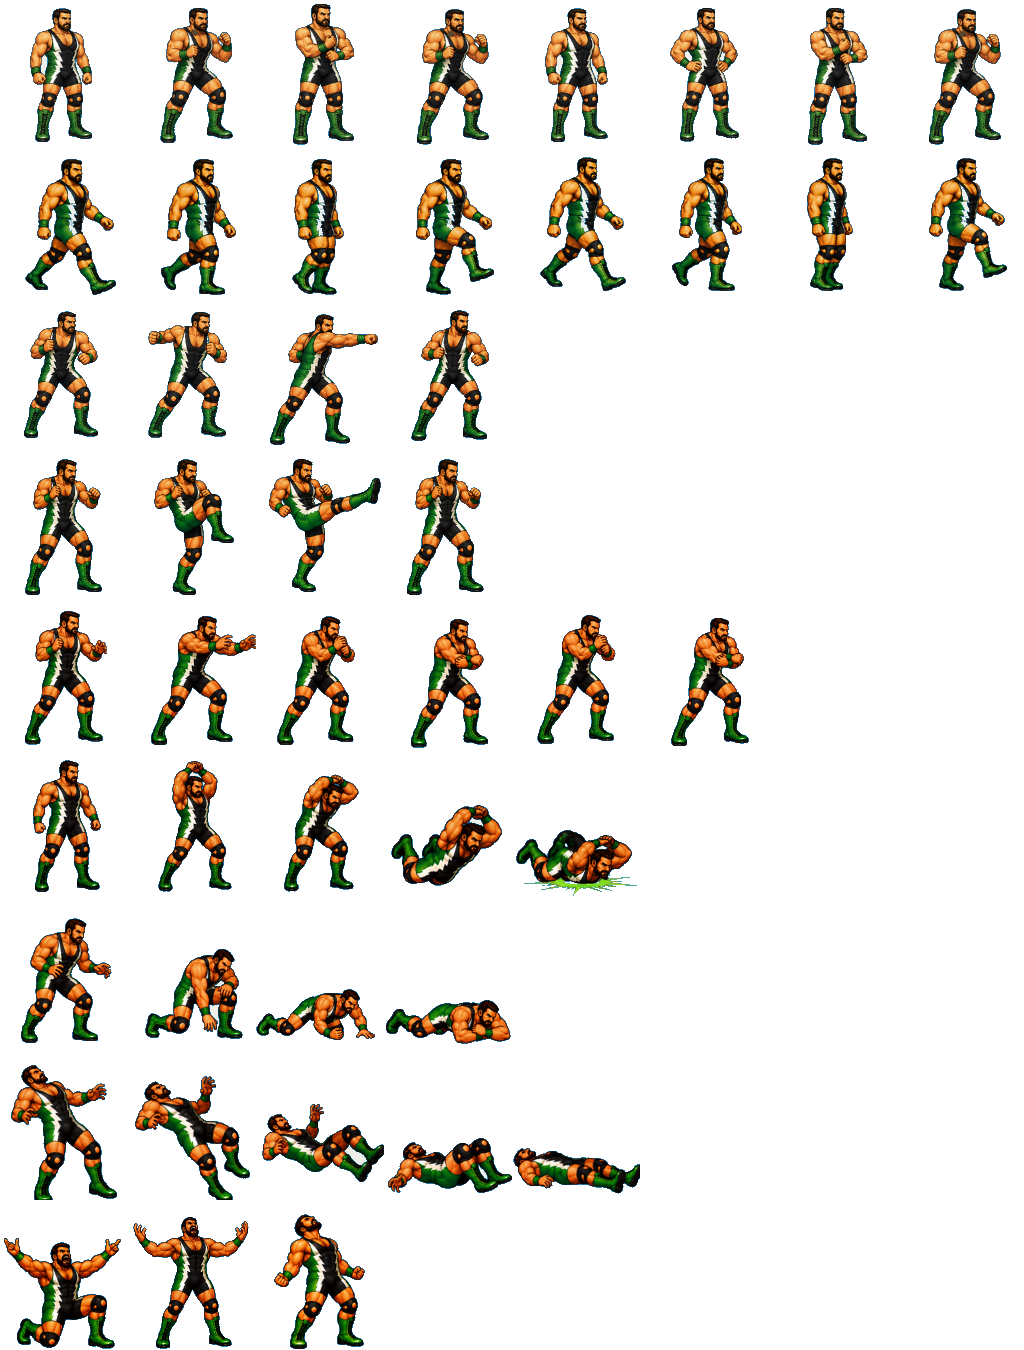
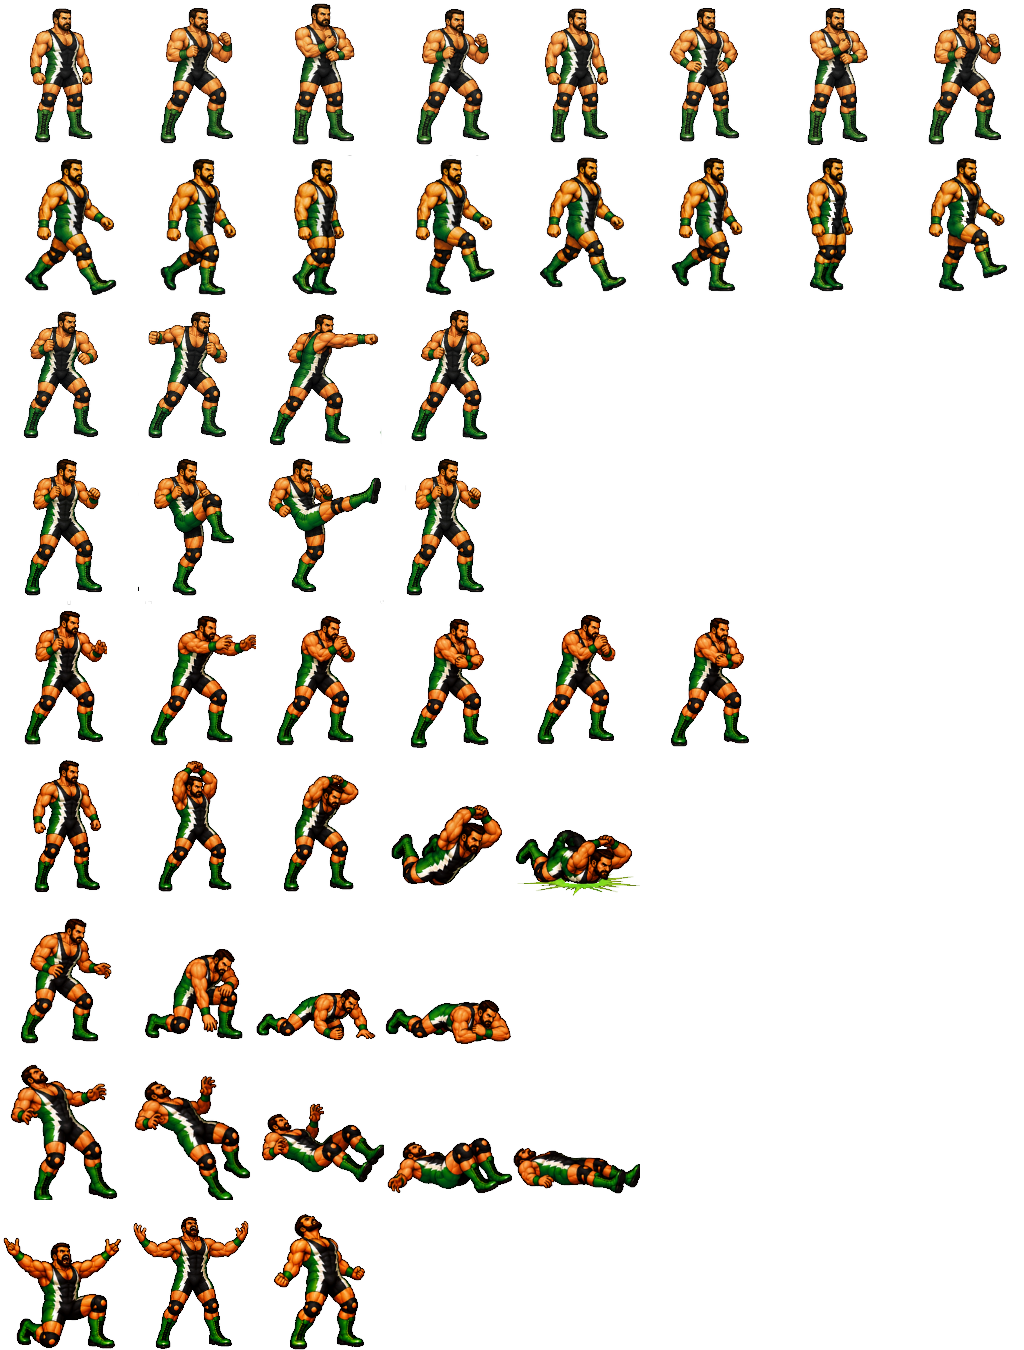
Add files via upload

diff --git a/src/main.js b/src/main.js
@@ -10,7 +10,7 @@ arenaImage.src = "assets/arena.png";
 const startImage = new Image();
 startImage.src = "assets/indiemanie-start-screen.png";
 const johnnyAtlas = new Image();
-johnnyAtlas.src = "assets/johnny-toxic-atlas.png?v=blue-key-3";
+johnnyAtlas.src = "assets/johnny-toxic-atlas.png?v=transparent-1";
 const joeyAtlas = new Image();
 joeyAtlas.src = "assets/joey-image-atlas.png?v=full-template-1";
 const philAtlas = new Image();
@@ -43,11 +43,14 @@ const state = {
   mode: "start",
   selectedIndex: 0,
   playerChoice: null,
+  cpuChoice: null,
+  selectStep: "player",
   message: "Hit START to begin",
   shake: 0,
   flash: 0,
   lastTime: performance.now(),
   pin: null,
+  grapple: null,
   cpuThink: 0,
   cpuIntent: "circle",
   result: null
@@ -132,6 +135,8 @@ canvas.addEventListener("click", (event) => {
     y <= startButton.y + startButton.h
   ) {
     state.mode = "select";
+    state.selectStep = "player";
+    state.selectedIndex = state.playerChoice ?? 0;
     state.message = "Choose your wrestler";
   }
 });
@@ -166,18 +171,22 @@ function makeWrestler(template, side, isPlayer) {
     block: false,
     kickMash: 0,
     pinCooldown: 0,
+    grappleCooldown: 0,
     aiCooldown: 0,
     celebrate: 0
   };
 }
 
 function startMatch(choiceIndex) {
-  const playerTemplate = roster[choiceIndex];
-  const cpuTemplate = roster[(choiceIndex + 1) % roster.length];
+  const playerIndex = choiceIndex;
+  const cpuIndex = state.cpuChoice ?? nextOpponentIndex(playerIndex);
+  const playerTemplate = roster[playerIndex];
+  const cpuTemplate = roster[cpuIndex];
   player = makeWrestler(playerTemplate, "left", true);
   cpu = makeWrestler(cpuTemplate, "right", false);
   state.mode = "fight";
-  state.playerChoice = choiceIndex;
+  state.playerChoice = playerIndex;
+  state.cpuChoice = cpuIndex;
   state.message = `${player.name} vs ${cpu.name}`;
   state.pin = null;
   state.result = null;
@@ -217,6 +226,8 @@ function update(dt) {
 
   if (state.pin) {
     updatePin(dt);
+  } else if (state.grapple) {
+    updateGrapple(dt);
   } else {
     updateFighterTimers(player, dt);
     updateFighterTimers(cpu, dt);
@@ -231,26 +242,53 @@ function update(dt) {
 function updateStart() {
   if (pressed.has("Enter")) {
     state.mode = "select";
+    state.selectStep = "player";
+    state.selectedIndex = state.playerChoice ?? 0;
     state.message = "Choose your wrestler";
   }
 }
 
 function updateSelect() {
   if (pressed.has("ArrowLeft")) {
-    state.selectedIndex = (state.selectedIndex + roster.length - 1) % roster.length;
+    moveSelectCursor(-1);
   }
   if (pressed.has("ArrowRight")) {
-    state.selectedIndex = (state.selectedIndex + 1) % roster.length;
+    moveSelectCursor(1);
   }
   if (pressed.has("Enter") || pressed.has("z") || pressed.has("x")) {
-    startMatch(state.selectedIndex);
+    if (state.selectStep === "player") {
+      state.playerChoice = state.selectedIndex;
+      state.cpuChoice = nextOpponentIndex(state.playerChoice);
+      state.selectedIndex = state.cpuChoice;
+      state.selectStep = "cpu";
+      state.message = "Choose your opponent";
+    } else {
+      state.cpuChoice = state.selectedIndex;
+      startMatch(state.playerChoice ?? 0);
+    }
   }
+  if (pressed.has("Escape") && state.selectStep === "cpu") {
+    state.selectStep = "player";
+    state.selectedIndex = state.playerChoice ?? 0;
+    state.message = "Choose your wrestler";
+  }
+}
+
+function nextOpponentIndex(playerIndex) {
+  return (playerIndex + 1) % roster.length;
+}
+
+function moveSelectCursor(direction) {
+  do {
+    state.selectedIndex = (state.selectedIndex + direction + roster.length) % roster.length;
+  } while (state.selectStep === "cpu" && state.selectedIndex === state.playerChoice);
 }
 
 function updateFighterTimers(f, dt) {
   f.actionTime = Math.max(0, f.actionTime - dt);
   f.stun = Math.max(0, f.stun - dt);
   f.pinCooldown = Math.max(0, f.pinCooldown - dt);
+  f.grappleCooldown = Math.max(0, f.grappleCooldown - dt);
   f.aiCooldown = Math.max(0, f.aiCooldown - dt);
   f.block = false;
 
@@ -304,12 +342,14 @@ function updateCpu(dt) {
 
   state.cpuThink -= dt;
   const d = distance(cpu, player);
+  const playerCrowded = isNearRingEdge(player) && d < 76;
   if (state.cpuThink <= 0) {
-    state.cpuThink = 0.25 + Math.random() * 0.45;
+    state.cpuThink = 0.34 + Math.random() * 0.52;
     if (player.down > 0 && d < 85 && cpu.pinCooldown === 0) state.cpuIntent = "pin";
     else if (cpu.momentum >= 100 && d < 70) state.cpuIntent = "finisher";
-    else if (d < 55 && Math.random() < 0.38) state.cpuIntent = "grapple";
-    else if (d < 82 && Math.random() < 0.22) state.cpuIntent = "kick";
+    else if (playerCrowded && Math.random() < 0.72) state.cpuIntent = "retreat";
+    else if (d < 56 && cpu.grappleCooldown === 0 && Math.random() < 0.16) state.cpuIntent = "grapple";
+    else if (d < 82 && Math.random() < 0.26) state.cpuIntent = "kick";
     else if (d < 72 && Math.random() < 0.58) state.cpuIntent = "punch";
     else state.cpuIntent = cpu.stamina < 30 && player.stamina > cpu.stamina ? "retreat" : "approach";
   }
@@ -414,26 +454,90 @@ function tryKick(attacker, defender) {
 }
 
 function tryGrapple(attacker, defender) {
-  if (!canAct(attacker)) return;
+  if (!canAct(attacker) || attacker.grappleCooldown > 0) return;
   attacker.state = "grapple";
-  attacker.actionTime = 0.48;
+  attacker.actionTime = 0.82;
   attacker.actionDuration = attacker.actionTime;
   attacker.action = "grapple";
-  if (inRange(attacker, defender, 52)) {
-    if (defender.stun > 0 || defender.stamina < 42) {
-      attacker.state = "slam";
-      attacker.actionTime = 0.72;
-      attacker.actionDuration = attacker.actionTime;
-      hit(attacker, defender, 18, 24, 0.9, true);
-      knockAway(attacker, defender, 150);
-      state.message = `${attacker.name} hits a heavy slam`;
-    } else {
-      hit(attacker, defender, 12, 18, 0.55, false);
-      state.message = `${attacker.name} wins the grapple`;
-    }
+  attacker.grappleCooldown = attacker.isPlayer ? 0.45 : 1.65;
+  if (inRange(attacker, defender, 78)) {
+    const slamReady = attacker.isPlayer
+      ? defender.stun > 0 || defender.stamina < 42
+      : (defender.stun > 0 && attacker.momentum >= 28) || defender.stamina < 30;
+    defender.state = "grapple";
+    defender.action = "grappled";
+    defender.actionTime = 0.82;
+    defender.actionDuration = defender.actionTime;
+    defender.stun = Math.max(defender.stun, 0.5);
+    attacker.vx = 0;
+    attacker.vy = 0;
+    defender.vx = 0;
+    defender.vy = 0;
+    state.grapple = {
+      attacker,
+      defender,
+      timer: 0,
+      resolveAt: 0.56,
+      slam: slamReady,
+      resolved: false
+    };
+    positionGrapple(attacker, defender);
+    state.message = `${attacker.name} locks up`;
   } else {
     whiff(attacker, `${attacker.name} grabs air`);
   }
+}
+
+function updateGrapple(dt) {
+  const grapple = state.grapple;
+  grapple.timer += dt;
+  positionGrapple(grapple.attacker, grapple.defender);
+  grapple.attacker.actionTime = Math.max(0, grapple.attacker.actionDuration - grapple.timer);
+  grapple.defender.actionTime = Math.max(0, grapple.defender.actionDuration - grapple.timer);
+  grapple.attacker.state = grapple.resolved ? grapple.attacker.state : "grapple";
+  grapple.defender.state = grapple.resolved ? grapple.defender.state : "grapple";
+
+  if (!grapple.resolved && grapple.timer >= grapple.resolveAt) {
+    grapple.resolved = true;
+    if (grapple.slam) {
+      grapple.attacker.state = "slam";
+      grapple.attacker.action = "slam";
+      grapple.attacker.actionTime = 0.72;
+      grapple.attacker.actionDuration = grapple.attacker.actionTime;
+      hit(grapple.attacker, grapple.defender, 18, 24, 0.9, true);
+      knockAway(grapple.attacker, grapple.defender, grapple.attacker.isPlayer ? 150 : 112);
+      if (!grapple.attacker.isPlayer) grapple.attacker.grappleCooldown = 2.6;
+      state.message = `${grapple.attacker.name} hits a heavy slam`;
+    } else {
+      hit(grapple.attacker, grapple.defender, 12, 18, 0.55, false);
+      grapple.attacker.actionTime = 0.28;
+      grapple.defender.actionTime = 0.32;
+      state.message = `${grapple.attacker.name} wins the grapple`;
+    }
+    state.grapple = null;
+  }
+}
+
+function positionGrapple(attacker, defender) {
+  const side = attacker.x <= defender.x ? 1 : -1;
+  const midX = (attacker.x + defender.x) / 2;
+  const midY = (attacker.y + defender.y) / 2;
+  attacker.x = clamp(midX - side * 13, -ring.w * 0.36, ring.w * 0.36);
+  defender.x = clamp(midX + side * 13, -ring.w * 0.36, ring.w * 0.36);
+  attacker.y = clamp(midY - 2, -ring.h * 0.28, ring.h * 0.28);
+  defender.y = clamp(midY + 2, -ring.h * 0.28, ring.h * 0.28);
+  attacker.face = side;
+  defender.face = -side;
+  attacker.vx = 0;
+  attacker.vy = 0;
+  defender.vx = 0;
+  defender.vy = 0;
+}
+
+function isNearRingEdge(f) {
+  const maxX = ring.w * 0.39 - Math.abs(f.y) * 0.25;
+  const maxY = ring.h * 0.31;
+  return Math.abs(f.x) > maxX - 34 || Math.abs(f.y) > maxY - 26;
 }
 
 function tryFinisher(attacker, defender) {
@@ -557,7 +661,7 @@ function hit(attacker, defender, staminaDamage, momentumGain, stunTime, knockdow
 }
 
 function whiff(attacker, message) {
-  if (!["punch", "kick"].includes(attacker.state)) {
+  if (!["punch", "kick", "grapple"].includes(attacker.state)) {
     attacker.state = "whiff";
   }
   attacker.actionTime += 0.24;
@@ -929,28 +1033,45 @@ function drawStart() {
 }
 
 function drawSelect() {
+  const choosingCpu = state.selectStep === "cpu";
   ctx.textAlign = "center";
   ctx.fillStyle = "#f5ead8";
   ctx.font = "30px Impact";
-  ctx.fillText("Choose Your Wrestler", W / 2, 116);
+  ctx.fillText(choosingCpu ? "Choose Your Opponent" : "Choose Your Wrestler", W / 2, 116);
+  if (choosingCpu && state.playerChoice !== null) {
+    ctx.fillStyle = "#f4c44f";
+    ctx.font = "18px Arial";
+    ctx.fillText(`Player: ${roster[state.playerChoice].name}`, W / 2, 144);
+  }
 
   roster.forEach((r, i) => {
     const gap = 250;
     const x = W / 2 - ((roster.length - 1) * gap) / 2 + i * gap;
     const y = 352;
-    ctx.fillStyle = state.selectedIndex === i ? "#f4c44f" : "#2a2e32";
+    const isSelected = state.selectedIndex === i;
+    const isPlayerChoice = choosingCpu && state.playerChoice === i;
+    ctx.fillStyle = isSelected ? "#f4c44f" : isPlayerChoice ? "#46b85a" : "#2a2e32";
     ctx.fillRect(x - 130, y - 124, 260, 248);
     ctx.fillStyle = "#111";
     ctx.fillRect(x - 118, y - 112, 236, 224);
-    drawPortrait(r, x, y - 6, state.selectedIndex === i);
+    drawPortrait(r, x, y - 6, isSelected || isPlayerChoice);
     ctx.fillStyle = "#f5ead8";
     ctx.font = "25px Impact";
     ctx.fillText(r.name, x, y + 92);
+    if (isPlayerChoice) {
+      ctx.fillStyle = "#46b85a";
+      ctx.font = "16px Impact";
+      ctx.fillText("PLAYER", x, y + 116);
+    } else if (choosingCpu && isSelected) {
+      ctx.fillStyle = "#e74846";
+      ctx.font = "16px Impact";
+      ctx.fillText("CPU", x, y + 116);
+    }
   });
 
   ctx.fillStyle = "#f4c44f";
   ctx.font = "18px Arial";
-  ctx.fillText("Arrow keys choose. Enter starts.", W / 2, 562);
+  ctx.fillText(choosingCpu ? "Arrow keys choose opponent. Enter starts. Esc backs up." : "Arrow keys choose player. Enter confirms.", W / 2, 562);
 }
 
 function drawPortrait(r, x, y, selected) {
@@ -1121,9 +1242,9 @@ function drawBlockWrestler(f, p, scale) {
 }
 
 function drawHud() {
-  drawBar(34, 28, 330, 18, player.stamina / 100, player.primary, player.name);
+  drawBar(34, 28, 330, 18, player.stamina / 100, healthColor(player.stamina / 100), player.name);
   drawBar(34, 54, 330, 12, player.momentum / 100, "#f4c44f", "");
-  drawBar(W - 364, 28, 330, 18, cpu.stamina / 100, cpu.primary, cpu.name);
+  drawBar(W - 364, 28, 330, 18, cpu.stamina / 100, healthColor(cpu.stamina / 100), cpu.name);
   drawBar(W - 364, 54, 330, 12, cpu.momentum / 100, "#f4c44f", "");
 
   if (state.pin) {
@@ -1137,6 +1258,12 @@ function drawHud() {
       ctx.fillText("Tap Space to kick out", W / 2, 145);
     }
   }
+}
+
+function healthColor(pct) {
+  if (pct <= 0.2) return "#d62f2f";
+  if (pct < 0.6) return "#f4c44f";
+  return "#46b85a";
 }
 
 function drawBar(x, y, w, h, pct, fill, label) {

diff --git a/index.html b/index.html
@@ -3,7 +3,7 @@
   <head>
     <meta charset="utf-8">
     <meta name="viewport" content="width=device-width, initial-scale=1">
-    <title>INDIEMANIA</title>
+    <title>Rumble64</title>
     <link rel="stylesheet" href="styles.css">
   </head>
   <body>
@@ -24,6 +24,6 @@
         </div>
       </section>
     </main>
-    <script src="src/main.js?v=phil-stamper-1"></script>
+    <script src="src/main.js?v=johnny-transparent-1"></script>
   </body>
 </html>